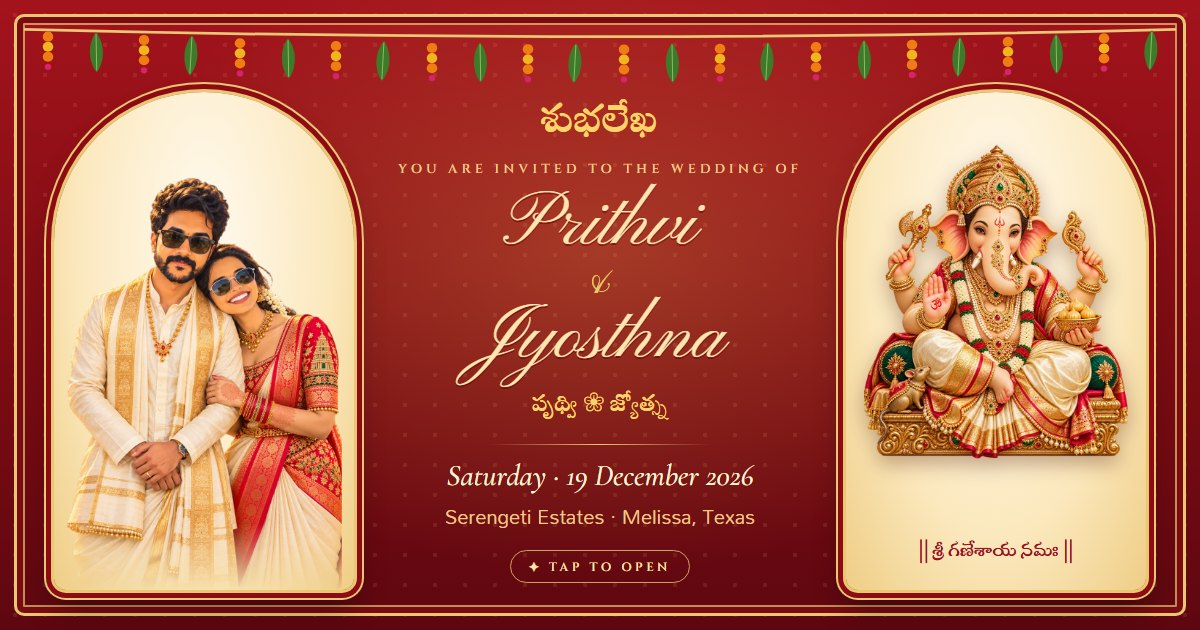
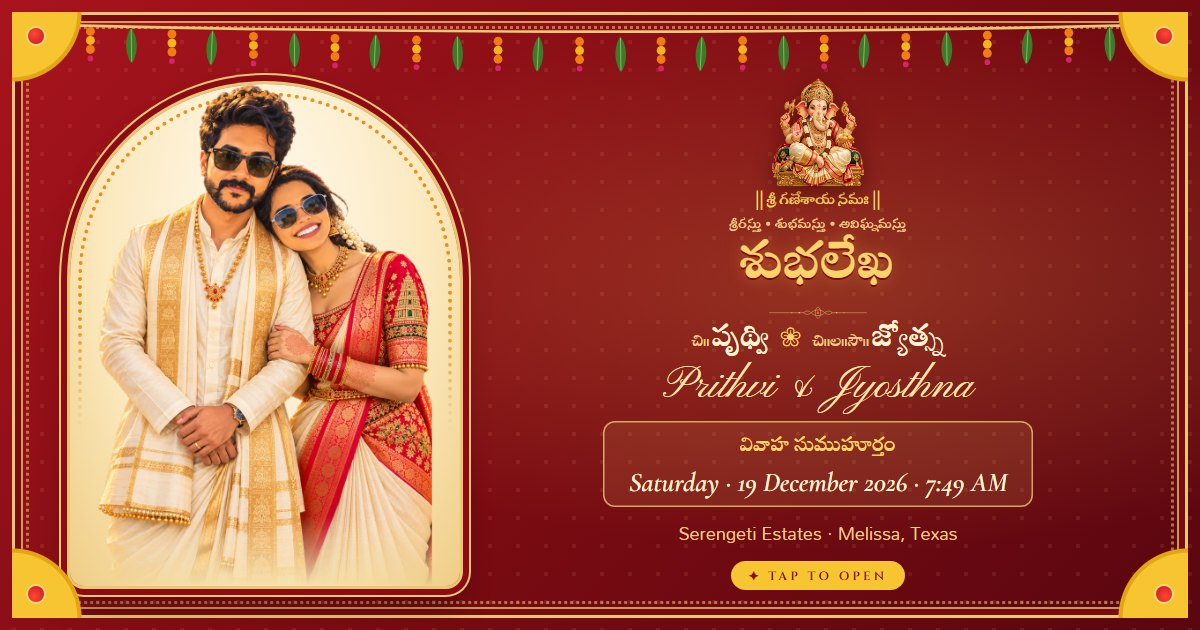
Traditional WhatsApp preview card
Couple portrait in a temple arch on the left; Lord Ganesha (small) above
శుభలేఖ, Telugu and English names, muhurtham and venue on the right, with
pasupu-kumkuma corners, mango-leaf thoranam and a muggu divider. Image URL
versioned so WhatsApp fetches the new card.

diff --git a/card/og-card.html b/card/og-card.html
@@ -1,8 +1,8 @@
 <!doctype html>
-<html lang="en"><head><meta charset="utf-8">
+<html lang="te"><head><meta charset="utf-8">
 <title>Preview card — Prithvi &amp; Jyosthna</title>
 <!-- 1200x630 link-preview card; rendered to ../assets/og/invite-card.jpg. Rebuild rather than editing by hand. -->
-<link href="https://fonts.googleapis.com/css2?family=Ramaraja&family=Mandali&family=Pinyon+Script&family=Cinzel:wght@600&family=Cormorant+Garamond:ital,wght@1,500&display=swap" rel="stylesheet">
+<link href="https://fonts.googleapis.com/css2?family=Ramaraja&family=Mandali&family=Pinyon+Script&family=Cinzel:wght@600&family=Cormorant+Garamond:ital,wght@1,500;1,600&display=swap" rel="stylesheet">
 <style>
   @font-face { font-family: "Potti Sreeramulu"; src: url("../assets/fonts/potti-sreeramulu.woff2") format("woff2"); }
   * { box-sizing: border-box; margin: 0; padding: 0; }
@@ -10,48 +10,74 @@
   body {
     position: relative; color: #fff1cf;
     background:
-      radial-gradient(ellipse at 50% 40%, rgba(255,190,90,.25), transparent 60%),
-      radial-gradient(circle, rgba(255,215,140,.10) 2px, transparent 2.5px) 0 0 / 30px 30px,
-      linear-gradient(#a3131c, #7a0b12 60%, #5e0710);
+      radial-gradient(ellipse at 70% 45%, rgba(255,190,90,.22), transparent 55%),
+      radial-gradient(circle, rgba(255,215,140,.09) 2px, transparent 2.5px) 0 0 / 28px 28px,
+      linear-gradient(135deg, #a8141d, #7a0b12 55%, #5a0610);
   }
-  .frame { position: absolute; inset: 14px; border: 3px solid #e9c873; border-radius: 10px; box-shadow: inset 0 0 0 6px #7a0b12, inset 0 0 0 8px rgba(233,200,115,.7); }
-  .thoranam { position: absolute; left: 24px; right: 24px; top: 22px; width: calc(100% - 48px); height: 64px; z-index: 3; }
+  /* gold double frame with a bead chain */
+  .frame { position: absolute; inset: 12px; border: 3px solid #e9c873; border-radius: 8px;
+    box-shadow: inset 0 0 0 6px #7a0b12, inset 0 0 0 8px rgba(233,200,115,.75); }
+  .beads { position: absolute; inset: 26px; border-radius: 4px; pointer-events: none;
+    border: 3px dotted rgba(233,200,115,.55); }
+  /* pasupu-kumkuma corners */
+  .pk { position: absolute; width: 74px; height: 74px; z-index: 4; }
+  .pk::before { content: ""; position: absolute; inset: 0; background: radial-gradient(circle at 0 0, #f7c531 0 62%, #e3a512 63% 66%, transparent 67%); }
+  .pk i { position: absolute; left: 16px; top: 16px; width: 16px; height: 16px; border-radius: 50%; background: radial-gradient(circle at 40% 35%, #ff4a2f, #c8102e); box-shadow: 0 0 0 2px rgba(255,240,200,.5); }
+  .tl { left: 12px; top: 12px; } .tr { right: 12px; top: 12px; transform: scaleX(-1); }
+  .bl { left: 12px; bottom: 12px; transform: scaleY(-1); } .br { right: 12px; bottom: 12px; transform: scale(-1); }
+  .thoranam { position: absolute; left: 70px; right: 70px; top: 20px; width: calc(100% - 140px); height: 54px; z-index: 3; }
+
+  /* left: couple in a temple arch */
   .arch {
-    position: absolute; top: 92px; bottom: 40px; width: 300px; border-radius: 150px 150px 12px 12px; overflow: hidden;
+    position: absolute; left: 70px; top: 84px; bottom: 44px; width: 390px; border-radius: 195px 195px 14px 14px; overflow: hidden;
     background: radial-gradient(ellipse at 50% 30%, #fffaf0, #fbe8bd 60%, #efcd85);
-    box-shadow: 0 0 0 3px #e9c873, 0 0 0 8px #8e0b16, 0 0 0 10px #e9c873, 0 18px 30px rgba(0,0,0,.35);
+    box-shadow: 0 0 0 3px #e9c873, 0 0 0 9px #8e0b16, 0 0 0 11px #e9c873, 0 18px 30px rgba(0,0,0,.35);
   }
-  .arch.left { left: 54px; } .arch.right { right: 54px; }
-  .arch img { position: absolute; left: 50%; transform: translateX(-50%); }
-  .couple { bottom: 0; width: 92%; -webkit-mask-image: linear-gradient(#000 84%, transparent); }
-  .ganesha { top: 52px; width: 88%; filter: drop-shadow(0 8px 10px rgba(80,20,0,.35)); }
-  .gn-te { position: absolute; left: 0; right: 0; bottom: 22px; text-align: center; font-family: "Potti Sreeramulu", serif; font-size: 21px; color: #9e1020; }
-  .center { position: absolute; left: 380px; right: 380px; top: 96px; bottom: 40px; display: flex; flex-direction: column; align-items: center; justify-content: center; text-align: center; }
-  .shubha { font-family: "Ramaraja", serif; font-size: 44px; color: #ffd36b; line-height: 1.1; }
-  .invited { font-family: "Cinzel", serif; font-weight: 600; font-size: 13px; letter-spacing: .32em; color: #f3c98d; margin-top: 8px; }
-  .name { font-family: "Pinyon Script", cursive; font-size: 76px; line-height: 1; color: #ffe6b0; text-shadow: 0 2px 0 rgba(90,0,0,.5); }
-  .amp { font-family: "Pinyon Script", cursive; font-size: 46px; line-height: .8; color: #e9c873; }
-  .te { font-family: "Ramaraja", serif; font-size: 26px; color: #ffd36b; margin-top: 6px; }
-  .rule { width: 220px; height: 1px; margin: 14px 0 12px; background: linear-gradient(90deg, transparent, #e9c873, transparent); }
-  .date { font-family: "Cormorant Garamond", serif; font-style: italic; font-size: 30px; color: #fff3d6; }
-  .muh { font-family: "Mandali", serif; font-size: 20px; color: #f3c98d; margin-top: 2px; }
-  .tap { margin-top: 14px; padding: 7px 18px; border: 1px solid rgba(233,200,115,.8); border-radius: 999px; font-family: "Cinzel", serif; font-weight: 600; font-size: 12px; letter-spacing: .3em; color: #ffe6b0; }
+  .arch::after { content: ""; position: absolute; inset: 8px; border-radius: 187px 187px 8px 8px; border: 4px dotted #ef8f1a; -webkit-mask: linear-gradient(#000 45%, transparent 70%); }
+  .couple { position: absolute; left: 50%; bottom: 0; width: 86%; transform: translateX(-50%); -webkit-mask-image: linear-gradient(#000 86%, transparent); }
+
+  /* right: Ganesha above శుభలేఖ, then the details */
+  .text { position: absolute; left: 500px; right: 64px; top: 78px; bottom: 40px; display: flex; flex-direction: column; align-items: center; text-align: center; }
+  .gn { width: 92px; height: 110px; object-fit: contain; filter: drop-shadow(0 6px 10px rgba(40,0,0,.45)); }
+  .gn-te { font-family: "Potti Sreeramulu", serif; font-size: 17px; color: #ffd36b; margin-top: 2px; }
+  .srirastu { font-family: "Potti Sreeramulu", serif; font-size: 15px; color: #f3c98d; margin-top: 2px; letter-spacing: .5px; }
+  .shubha { font-family: "Ramaraja", serif; font-size: 58px; line-height: 1.05; color: #ffd36b; margin-top: 4px; text-shadow: 0 2px 0 #7a0b12, 0 0 18px rgba(255,190,80,.35); }
+  .muggu { width: 260px; height: 30px; margin: 4px 0 2px; }
+  .names-te { font-family: "Ramaraja", serif; font-size: 33px; line-height: 1.25; color: #fff3d6; }
+  .names-te small { font-size: 18px; color: #f3c98d; margin-right: 3px; }
+  .names-te b { font-weight: 400; color: #ffd36b; margin: 0 10px; font-size: 26px; }
+  .names-en { font-family: "Pinyon Script", cursive; font-size: 44px; line-height: 1.1; color: #ffe6b0; }
+  .muh { margin-top: 10px; padding: 8px 26px 9px; border-radius: 12px; background: rgba(255,214,120,.1);
+    box-shadow: inset 0 0 0 1.5px rgba(233,200,115,.8); }
+  .muh .lbl { font-family: "Ramaraja", serif; font-size: 22px; color: #ffd36b; }
+  .muh .date { font-family: "Cormorant Garamond", serif; font-style: italic; font-weight: 600; font-size: 27px; color: #fff3d6; line-height: 1.15; }
+  .venue { font-family: "Mandali", serif; font-size: 18px; color: #f3c98d; margin-top: 8px; }
+  .tap { margin-top: 10px; padding: 6px 18px; border-radius: 999px; background: #f7c531; color: #8e0b16;
+    font-family: "Cinzel", serif; font-weight: 600; font-size: 12px; letter-spacing: .28em; }
 </style></head>
 <body>
-  <div class="frame"></div>
-  <svg class="thoranam" viewBox="0 0 1200 70" preserveAspectRatio="none"><path d="M0 8 Q600.0 24 1200 8" stroke="#e9c873" stroke-width="3" fill="none"/><circle cx="25.0" cy="16.0" r="5.5" fill="#ef7d14"/><circle cx="25.0" cy="27.0" r="5.5" fill="#f2b51d"/><circle cx="25.0" cy="38.0" r="5.5" fill="#ef7d14"/><circle cx="25.0" cy="49.0" r="3.4" fill="#d6246b"/><g transform="translate(75.0 10.9) rotate(-1)"><path d="M0 0C-10 14-8 34 0 44C8 34 10 14 0 0Z" fill="#3f7a2a"/><path d="M0 2V42" stroke="#8cc063" stroke-width="1"/></g><circle cx="125.0" cy="19.8" r="5.5" fill="#ef7d14"/><circle cx="125.0" cy="30.8" r="5.5" fill="#f2b51d"/><circle cx="125.0" cy="41.8" r="5.5" fill="#ef7d14"/><circle cx="125.0" cy="52.8" r="3.4" fill="#d6246b"/><g transform="translate(175.0 14.6) rotate(3)"><path d="M0 0C-10 14-8 34 0 44C8 34 10 14 0 0Z" fill="#3f7a2a"/><path d="M0 2V42" stroke="#8cc063" stroke-width="1"/></g><circle cx="225.0" cy="23.3" r="5.5" fill="#ef7d14"/><circle cx="225.0" cy="34.3" r="5.5" fill="#f2b51d"/><circle cx="225.0" cy="45.3" r="5.5" fill="#ef7d14"/><circle cx="225.0" cy="56.3" r="3.4" fill="#d6246b"/><g transform="translate(275.0 17.9) rotate(-1)"><path d="M0 0C-10 14-8 34 0 44C8 34 10 14 0 0Z" fill="#3f7a2a"/><path d="M0 2V42" stroke="#8cc063" stroke-width="1"/></g><circle cx="325.0" cy="26.3" r="5.5" fill="#ef7d14"/><circle cx="325.0" cy="37.3" r="5.5" fill="#f2b51d"/><circle cx="325.0" cy="48.3" r="5.5" fill="#ef7d14"/><circle cx="325.0" cy="59.3" r="3.4" fill="#d6246b"/><g transform="translate(375.0 20.5) rotate(3)"><path d="M0 0C-10 14-8 34 0 44C8 34 10 14 0 0Z" fill="#3f7a2a"/><path d="M0 2V42" stroke="#8cc063" stroke-width="1"/></g><circle cx="425.0" cy="28.5" r="5.5" fill="#ef7d14"/><circle cx="425.0" cy="39.5" r="5.5" fill="#f2b51d"/><circle cx="425.0" cy="50.5" r="5.5" fill="#ef7d14"/><circle cx="425.0" cy="61.5" r="3.4" fill="#d6246b"/><g transform="translate(475.0 22.2) rotate(-1)"><path d="M0 0C-10 14-8 34 0 44C8 34 10 14 0 0Z" fill="#3f7a2a"/><path d="M0 2V42" stroke="#8cc063" stroke-width="1"/></g><circle cx="525.0" cy="29.7" r="5.5" fill="#ef7d14"/><circle cx="525.0" cy="40.7" r="5.5" fill="#f2b51d"/><circle cx="525.0" cy="51.7" r="5.5" fill="#ef7d14"/><circle cx="525.0" cy="62.7" r="3.4" fill="#d6246b"/><g transform="translate(575.0 23.0) rotate(3)"><path d="M0 0C-10 14-8 34 0 44C8 34 10 14 0 0Z" fill="#3f7a2a"/><path d="M0 2V42" stroke="#8cc063" stroke-width="1"/></g><circle cx="625.0" cy="30.0" r="5.5" fill="#ef7d14"/><circle cx="625.0" cy="41.0" r="5.5" fill="#f2b51d"/><circle cx="625.0" cy="52.0" r="5.5" fill="#ef7d14"/><circle cx="625.0" cy="63.0" r="3.4" fill="#d6246b"/><g transform="translate(675.0 22.7) rotate(-1)"><path d="M0 0C-10 14-8 34 0 44C8 34 10 14 0 0Z" fill="#3f7a2a"/><path d="M0 2V42" stroke="#8cc063" stroke-width="1"/></g><circle cx="725.0" cy="29.2" r="5.5" fill="#ef7d14"/><circle cx="725.0" cy="40.2" r="5.5" fill="#f2b51d"/><circle cx="725.0" cy="51.2" r="5.5" fill="#ef7d14"/><circle cx="725.0" cy="62.2" r="3.4" fill="#d6246b"/><g transform="translate(775.0 21.5) rotate(3)"><path d="M0 0C-10 14-8 34 0 44C8 34 10 14 0 0Z" fill="#3f7a2a"/><path d="M0 2V42" stroke="#8cc063" stroke-width="1"/></g><circle cx="825.0" cy="27.5" r="5.5" fill="#ef7d14"/><circle cx="825.0" cy="38.5" r="5.5" fill="#f2b51d"/><circle cx="825.0" cy="49.5" r="5.5" fill="#ef7d14"/><circle cx="825.0" cy="60.5" r="3.4" fill="#d6246b"/><g transform="translate(875.0 19.3) rotate(-1)"><path d="M0 0C-10 14-8 34 0 44C8 34 10 14 0 0Z" fill="#3f7a2a"/><path d="M0 2V42" stroke="#8cc063" stroke-width="1"/></g><circle cx="925.0" cy="24.9" r="5.5" fill="#ef7d14"/><circle cx="925.0" cy="35.9" r="5.5" fill="#f2b51d"/><circle cx="925.0" cy="46.9" r="5.5" fill="#ef7d14"/><circle cx="925.0" cy="57.9" r="3.4" fill="#d6246b"/><g transform="translate(975.0 16.3) rotate(3)"><path d="M0 0C-10 14-8 34 0 44C8 34 10 14 0 0Z" fill="#3f7a2a"/><path d="M0 2V42" stroke="#8cc063" stroke-width="1"/></g><circle cx="1025.0" cy="21.6" r="5.5" fill="#ef7d14"/><circle cx="1025.0" cy="32.6" r="5.5" fill="#f2b51d"/><circle cx="1025.0" cy="43.6" r="5.5" fill="#ef7d14"/><circle cx="1025.0" cy="54.6" r="3.4" fill="#d6246b"/><g transform="translate(1075.0 12.8) rotate(-1)"><path d="M0 0C-10 14-8 34 0 44C8 34 10 14 0 0Z" fill="#3f7a2a"/><path d="M0 2V42" stroke="#8cc063" stroke-width="1"/></g><circle cx="1125.0" cy="17.9" r="5.5" fill="#ef7d14"/><circle cx="1125.0" cy="28.9" r="5.5" fill="#f2b51d"/><circle cx="1125.0" cy="39.9" r="5.5" fill="#ef7d14"/><circle cx="1125.0" cy="50.9" r="3.4" fill="#d6246b"/><g transform="translate(1175.0 9.0) rotate(3)"><path d="M0 0C-10 14-8 34 0 44C8 34 10 14 0 0Z" fill="#3f7a2a"/><path d="M0 2V42" stroke="#8cc063" stroke-width="1"/></g></svg>
-  <div class="arch left"><img class="couple" src="../assets/img/couple-portrait.webp" alt=""></div>
-  <div class="center">
+  <div class="frame"></div><div class="beads"></div>
+  <span class="pk tl"><i></i></span><span class="pk tr"><i></i></span><span class="pk bl"><i></i></span><span class="pk br"><i></i></span>
+  <svg class="thoranam" viewBox="0 0 1200 60" preserveAspectRatio="none"><path d="M0 6 Q600.0 20 1200 6" stroke="#e9c873" stroke-width="3" fill="none"/><circle cx="23.1" cy="12.7" r="5" fill="#ef7d14"/><circle cx="23.1" cy="22.7" r="5" fill="#f2b51d"/><circle cx="23.1" cy="32.7" r="5" fill="#ef7d14"/><circle cx="23.1" cy="42.7" r="3.2" fill="#d6246b"/><g transform="translate(69.2 8.2) rotate(-1)"><path d="M0 0C-9 13-7 31 0 40C7 31 9 13 0 0Z" fill="#3f7a2a"/><path d="M0 2V38" stroke="#8cc063" stroke-width="1"/></g><circle cx="115.4" cy="15.6" r="5" fill="#ef7d14"/><circle cx="115.4" cy="25.6" r="5" fill="#f2b51d"/><circle cx="115.4" cy="35.6" r="5" fill="#ef7d14"/><circle cx="115.4" cy="45.6" r="3.2" fill="#d6246b"/><g transform="translate(161.5 10.9) rotate(3)"><path d="M0 0C-9 13-7 31 0 40C7 31 9 13 0 0Z" fill="#3f7a2a"/><path d="M0 2V38" stroke="#8cc063" stroke-width="1"/></g><circle cx="207.7" cy="18.2" r="5" fill="#ef7d14"/><circle cx="207.7" cy="28.2" r="5" fill="#f2b51d"/><circle cx="207.7" cy="38.2" r="5" fill="#ef7d14"/><circle cx="207.7" cy="48.2" r="3.2" fill="#d6246b"/><g transform="translate(253.8 13.4) rotate(-1)"><path d="M0 0C-9 13-7 31 0 40C7 31 9 13 0 0Z" fill="#3f7a2a"/><path d="M0 2V38" stroke="#8cc063" stroke-width="1"/></g><circle cx="300.0" cy="20.5" r="5" fill="#ef7d14"/><circle cx="300.0" cy="30.5" r="5" fill="#f2b51d"/><circle cx="300.0" cy="40.5" r="5" fill="#ef7d14"/><circle cx="300.0" cy="50.5" r="3.2" fill="#d6246b"/><g transform="translate(346.2 15.4) rotate(3)"><path d="M0 0C-9 13-7 31 0 40C7 31 9 13 0 0Z" fill="#3f7a2a"/><path d="M0 2V38" stroke="#8cc063" stroke-width="1"/></g><circle cx="392.3" cy="22.3" r="5" fill="#ef7d14"/><circle cx="392.3" cy="32.3" r="5" fill="#f2b51d"/><circle cx="392.3" cy="42.3" r="5" fill="#ef7d14"/><circle cx="392.3" cy="52.3" r="3.2" fill="#d6246b"/><g transform="translate(438.5 16.9) rotate(-1)"><path d="M0 0C-9 13-7 31 0 40C7 31 9 13 0 0Z" fill="#3f7a2a"/><path d="M0 2V38" stroke="#8cc063" stroke-width="1"/></g><circle cx="484.6" cy="23.5" r="5" fill="#ef7d14"/><circle cx="484.6" cy="33.5" r="5" fill="#f2b51d"/><circle cx="484.6" cy="43.5" r="5" fill="#ef7d14"/><circle cx="484.6" cy="53.5" r="3.2" fill="#d6246b"/><g transform="translate(530.8 17.8) rotate(3)"><path d="M0 0C-9 13-7 31 0 40C7 31 9 13 0 0Z" fill="#3f7a2a"/><path d="M0 2V38" stroke="#8cc063" stroke-width="1"/></g><circle cx="576.9" cy="24.0" r="5" fill="#ef7d14"/><circle cx="576.9" cy="34.0" r="5" fill="#f2b51d"/><circle cx="576.9" cy="44.0" r="5" fill="#ef7d14"/><circle cx="576.9" cy="54.0" r="3.2" fill="#d6246b"/><g transform="translate(623.1 18.0) rotate(-1)"><path d="M0 0C-9 13-7 31 0 40C7 31 9 13 0 0Z" fill="#3f7a2a"/><path d="M0 2V38" stroke="#8cc063" stroke-width="1"/></g><circle cx="669.2" cy="23.8" r="5" fill="#ef7d14"/><circle cx="669.2" cy="33.8" r="5" fill="#f2b51d"/><circle cx="669.2" cy="43.8" r="5" fill="#ef7d14"/><circle cx="669.2" cy="53.8" r="3.2" fill="#d6246b"/><g transform="translate(715.4 17.5) rotate(3)"><path d="M0 0C-9 13-7 31 0 40C7 31 9 13 0 0Z" fill="#3f7a2a"/><path d="M0 2V38" stroke="#8cc063" stroke-width="1"/></g><circle cx="761.5" cy="22.9" r="5" fill="#ef7d14"/><circle cx="761.5" cy="32.9" r="5" fill="#f2b51d"/><circle cx="761.5" cy="42.9" r="5" fill="#ef7d14"/><circle cx="761.5" cy="52.9" r="3.2" fill="#d6246b"/><g transform="translate(807.7 16.3) rotate(-1)"><path d="M0 0C-9 13-7 31 0 40C7 31 9 13 0 0Z" fill="#3f7a2a"/><path d="M0 2V38" stroke="#8cc063" stroke-width="1"/></g><circle cx="853.8" cy="21.4" r="5" fill="#ef7d14"/><circle cx="853.8" cy="31.4" r="5" fill="#f2b51d"/><circle cx="853.8" cy="41.4" r="5" fill="#ef7d14"/><circle cx="853.8" cy="51.4" r="3.2" fill="#d6246b"/><g transform="translate(900.0 14.5) rotate(3)"><path d="M0 0C-9 13-7 31 0 40C7 31 9 13 0 0Z" fill="#3f7a2a"/><path d="M0 2V38" stroke="#8cc063" stroke-width="1"/></g><circle cx="946.2" cy="19.4" r="5" fill="#ef7d14"/><circle cx="946.2" cy="29.4" r="5" fill="#f2b51d"/><circle cx="946.2" cy="39.4" r="5" fill="#ef7d14"/><circle cx="946.2" cy="49.4" r="3.2" fill="#d6246b"/><g transform="translate(992.3 12.2) rotate(-1)"><path d="M0 0C-9 13-7 31 0 40C7 31 9 13 0 0Z" fill="#3f7a2a"/><path d="M0 2V38" stroke="#8cc063" stroke-width="1"/></g><circle cx="1038.5" cy="16.9" r="5" fill="#ef7d14"/><circle cx="1038.5" cy="26.9" r="5" fill="#f2b51d"/><circle cx="1038.5" cy="36.9" r="5" fill="#ef7d14"/><circle cx="1038.5" cy="46.9" r="3.2" fill="#d6246b"/><g transform="translate(1084.6 9.6) rotate(3)"><path d="M0 0C-9 13-7 31 0 40C7 31 9 13 0 0Z" fill="#3f7a2a"/><path d="M0 2V38" stroke="#8cc063" stroke-width="1"/></g><circle cx="1130.8" cy="14.2" r="5" fill="#ef7d14"/><circle cx="1130.8" cy="24.2" r="5" fill="#f2b51d"/><circle cx="1130.8" cy="34.2" r="5" fill="#ef7d14"/><circle cx="1130.8" cy="44.2" r="3.2" fill="#d6246b"/><g transform="translate(1176.9 6.7) rotate(-1)"><path d="M0 0C-9 13-7 31 0 40C7 31 9 13 0 0Z" fill="#3f7a2a"/><path d="M0 2V38" stroke="#8cc063" stroke-width="1"/></g></svg>
+
+  <div class="arch"><img class="couple" src="../assets/img/couple-portrait.webp" alt=""></div>
+
+  <div class="text">
+    <img class="gn" src="../assets/img/ganesha.webp" alt="">
+    <p class="gn-te">|| శ్రీ గణేశాయ నమః ||</p>
+    <p class="srirastu">శ్రీరస్తు • శుభమస్తు • అవిఘ్నమస్తు</p>
     <p class="shubha">శుభలేఖ</p>
-    <p class="invited">YOU ARE INVITED TO THE WEDDING OF</p>
-    <p class="name" style="margin-top:10px">Prithvi</p>
-    <p class="amp">&amp;</p>
-    <p class="name">Jyosthna</p>
-    <p class="te">పృథ్వి ❀ జ్యోత్స్న</p>
-    <span class="rule"></span>
-    <p class="date">Saturday · 19 December 2026</p>
-    <p class="muh">Serengeti Estates · Melissa, Texas</p>
+    <svg class="muggu" viewBox="0 0 260 36"><g fill="none" stroke="#e9c873" stroke-width="1.3" stroke-linecap="round">
+  <path d="M0 18H92M168 18H260"/><path d="M130 2C140 10 140 26 130 34C120 26 120 10 130 2Z"/><path d="M112 18C120 8 140 8 148 18C140 28 120 28 112 18Z"/>
+  <path d="M92 18C98 12 104 12 112 18C104 24 98 24 92 18ZM168 18C162 12 156 12 148 18C156 24 162 24 168 18Z"/></g>
+  <circle cx="130" cy="18" r="3.4" fill="#ff5a3c"/><g fill="#e9c873"><circle cx="80" cy="18" r="2"/><circle cx="180" cy="18" r="2"/><circle cx="60" cy="18" r="1.4"/><circle cx="200" cy="18" r="1.4"/></g></svg>
+    <p class="names-te"><small>చి॥</small>పృథ్వి<b>❀</b><small>చి॥ల॥సౌ॥</small>జ్యోత్స్న</p>
+    <p class="names-en">Prithvi &amp; Jyosthna</p>
+    <div class="muh">
+      <p class="lbl">వివాహ సుముహూర్తం</p>
+      <p class="date">Saturday · 19 December 2026 · 7:49 AM</p>
+    </div>
+    <p class="venue">Serengeti Estates · Melissa, Texas</p>
     <p class="tap">✦ TAP TO OPEN</p>
   </div>
-  <div class="arch right"><img class="ganesha" src="../assets/img/ganesha.webp" alt=""><p class="gn-te">|| శ్రీ గణేశాయ నమః ||</p></div>
 </body></html>

diff --git a/index.html b/index.html
@@ -13,13 +13,13 @@
   <meta property="og:title" content="Prithvi & Jyosthna — Wedding Invitation">
   <meta property="og:description" content="శుభలేఖ · Saturday, 19 December 2026 · Serengeti Estates, Melissa, Texas. Tap to open your invitation.">
   <meta property="og:type" content="website">
-  <meta property="og:image" content="https://prithvi-jyosthna-wedding-invite.vercel.app/assets/og/invite-card.jpg">
+  <meta property="og:image" content="https://prithvi-jyosthna-wedding-invite.vercel.app/assets/og/invite-card.jpg?v=2">
   <meta property="og:image:type" content="image/jpeg">
   <meta property="og:image:width" content="1200">
   <meta property="og:image:height" content="630">
   <meta property="og:image:alt" content="Wedding invitation of Prithvi and Jyosthna with Lord Ganesha, 19 December 2026">
   <meta name="twitter:card" content="summary_large_image">
-  <meta name="twitter:image" content="https://prithvi-jyosthna-wedding-invite.vercel.app/assets/og/invite-card.jpg">
+  <meta name="twitter:image" content="https://prithvi-jyosthna-wedding-invite.vercel.app/assets/og/invite-card.jpg?v=2">
   <meta name="theme-color" content="#F6EEE1">
   <link rel="icon" href="assets/img/favicon-32.png">
   <link rel="apple-touch-icon" href="assets/img/apple-touch-icon.png">
